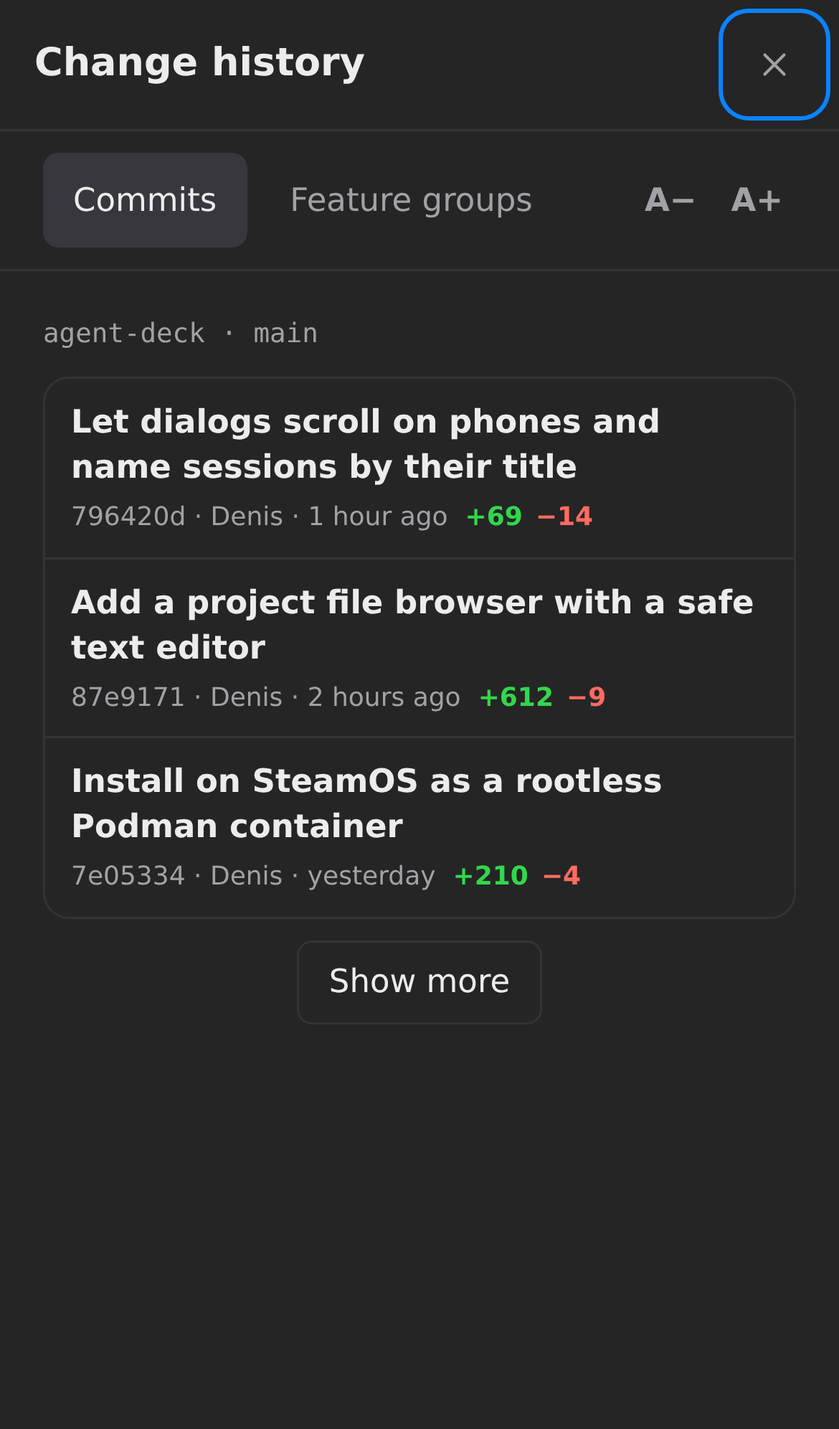
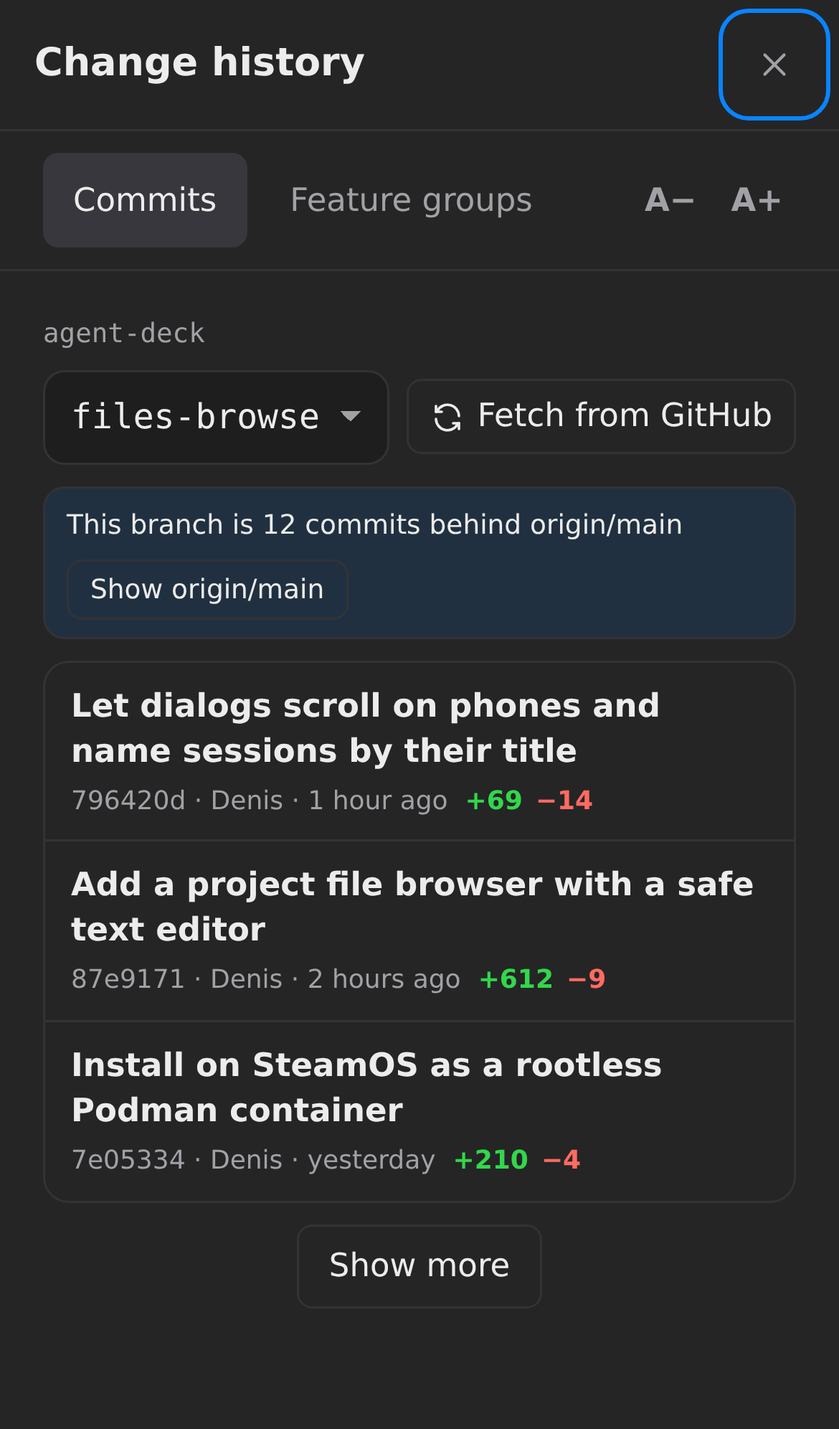
Pick the branch in change history, show how far a worktree is behind and fetch from GitHub
Claude-Session: https://claude.ai/code/session_01WizKGTW24pfp1RfsJQRaht

diff --git a/panel/index.html b/panel/index.html
@@ -438,7 +438,14 @@ dialog::backdrop{background:rgba(0,0,0,.55)}
 .git-tabs button.on{background:var(--sel);color:var(--fg2)}
 #git_body{display:flex;flex-direction:column;gap:10px}
 #git_body>*{flex:none}
-.git-repo{margin:0;color:var(--mut)}
+.git-bar{display:flex;flex-wrap:wrap;align-items:center;gap:8px}
+.git-bar code{color:var(--mut);font-family:var(--mono);font-size:12.5px}
+.git-branch{min-width:0;max-width:100%;min-height:34px;padding:4px 28px 4px 10px;border:1px solid var(--bd);border-radius:var(--r-sm);background:var(--side2);color:var(--fg2);font:12.5px var(--mono)}
+.git-bar .git-branch{width:auto;flex:1 1 140px}
+.git-bar code{flex-basis:100%}
+.git-fetch{display:inline-flex;align-items:center;gap:6px;flex:none;padding:6px 10px;border:1px solid var(--bd);border-radius:var(--r-sm);color:var(--fg2)}
+.git-behind{display:flex;flex-wrap:wrap;align-items:center;justify-content:space-between;gap:8px;padding:8px 10px;border:1px solid var(--bd);border-radius:10px;background:var(--acc-soft);color:var(--fg2);font-size:12.5px}
+.git-behind button{padding:4px 10px;border:1px solid var(--bd);border-radius:var(--r-sm);color:var(--fg2)}
 .git-list{display:grid;border:1px solid var(--bd);border-radius:12px;overflow:hidden}
 .git-row,.git-group{display:grid;gap:4px;padding:10px 12px;border-bottom:1px solid var(--bd-soft);text-align:left;color:var(--fg)}
 .git-row:last-child{border-bottom:0}.git-row:hover,.git-group:hover{background:var(--side2)}
@@ -672,6 +679,7 @@ dialog::backdrop{background:rgba(0,0,0,.55)}
   .acts button{flex:1;min-height:var(--tap);padding:12px;font-size:16px;border-radius:var(--r)}
   #inbox_dlg,#files_dlg,#git_dlg{width:100vw}
   #inbox_dlg .dlg,#files_dlg .dlg,#git_dlg .dlg{padding-top:var(--sat)}
+  .git-branch{font-size:16px;min-height:var(--tap)}
   .git-tabs{padding:10px 20px}.git-tabs button{min-height:var(--tap);padding:0 14px}
   .dl .ln{width:36px}
   #confirm_dlg{width:calc(100vw - 32px);height:fit-content;margin:auto;border:1px solid var(--bd-soft);border-radius:16px}
@@ -1937,7 +1945,7 @@ if(typeof module!=="undefined")module.exports={formatSize,homeRelative};
 // Git history of the open session's repository: commits with their diffs, and feature groups that a
 // cheap model (Claude Haiku) proposes from commit subjects and file names, each with a combined diff.
 // Agent and repository text is rendered with textContent only.
-const hist={session:null,tab:"commits",log:null,commits:[],back:null,view:null,groups:null,timer:null};
+const hist={session:null,ref:"",tab:"commits",log:null,commits:[],back:null,view:null,groups:null,timer:null,fetching:false};
 
 function relativeTime(seconds){
   const diff=seconds-Date.now()/1000,units=[["year",31536000],["month",2592000],["day",86400],["hour",3600],["minute",60]];
@@ -1992,12 +2000,32 @@ function fileBlock(title,file,open,content){
 
 async function openHistory(){
   if(!active)return;
-  hist.session=active;hist.tab="commits";hist.view=null;hist.back=null;hist.log=null;hist.commits=[];hist.groups=null;
+  hist.session=active;hist.ref="";hist.tab="commits";hist.view=null;hist.back=null;hist.log=null;hist.commits=[];hist.groups=null;
   applyCodeFont();
   if(!$("git_dlg").open)$("git_dlg").showModal();
   renderHistory();await loadHistoryPage();
 }
-function gitPath(route,params={}){return "/api/git/"+route+"?"+new URLSearchParams({name:hist.session,...params})}
+function gitPath(route,params={}){return "/api/git/"+route+"?"+new URLSearchParams({name:hist.session,ref:hist.ref,...params})}
+// Another branch (a worktree's own, the local main, or GitHub's after a fetch) starts the list over.
+function chooseBranch(ref){hist.ref=ref;hist.log=null;hist.commits=[];hist.groups=null;hist.view=null;renderHistory();loadHistoryPage();if(hist.tab==="groups")loadGroups()}
+async function fetchRemote(){
+  if(hist.fetching)return;
+  hist.fetching=true;renderHistory();
+  try{await api("/api/git_fetch",{name:hist.session});toast(tr("Ветки обновлены с GitHub"),"success");hist.fetching=false;chooseBranch(hist.ref);return}
+  catch(e){if(e.message!==STALE)toast(e.message)}
+  hist.fetching=false;renderHistory();
+}
+function branchBar(){
+  const log=hist.log,select=el("select","git-branch");select.setAttribute("aria-label",tr("Ветка"));
+  for(const name of log.branches){const option=el("option","",name);option.value=name===log.branches[0]?"":name;select.append(option)}
+  select.value=hist.ref;select.onchange=()=>chooseBranch(select.value);
+  const fetch=fileButton(hist.fetching?tr("Получаю…"):tr("Получить с GitHub"),"git-fetch",fetchRemote,"refresh");fetch.disabled=hist.fetching;
+  const bar=el("div","git-bar",el("code","",log.name),select,fetch);
+  const notes=[];
+  if(log.behind&&log.remote)notes.push(el("div","git-behind",el("span","",tr("Эта ветка отстаёт от {0} на {1} коммитов",[log.remote,log.behind])),
+    fileButton(tr("Показать {0}",[log.remote]),"",()=>chooseBranch(log.remote))));
+  return [bar,...notes];
+}
 async function loadHistoryPage(){
   try{const page=await api(gitPath("log",{skip:hist.commits.length}));hist.log=page;hist.commits.push(...page.commits)}
   catch(e){if(e.message!==STALE)hist.error=e.message}
@@ -2022,7 +2050,7 @@ async function loadGroups(){
   if(hist.tab==="groups"&&!hist.view)renderHistory();
 }
 async function startGrouping(){
-  try{hist.groups=await api("/api/git_group",{name:hist.session})}catch(e){if(e.message!==STALE)toast(e.message);return}
+  try{hist.groups=await api("/api/git_group",{name:hist.session,ref:hist.ref})}catch(e){if(e.message!==STALE)toast(e.message);return}
   renderHistory();hist.timer=setTimeout(loadGroups,3000);
 }
 function historyTab(tab){hist.tab=tab;hist.view=null;if(tab==="groups"&&!hist.groups)loadGroups();renderHistory()}
@@ -2039,7 +2067,7 @@ function renderHistory(){
   if(hist.tab==="groups")return renderGroups(box);
   if(hist.error&&!hist.commits.length){box.append(el("p","files-empty",hist.error));return}
   if(!hist.log){box.append(el("p","files-empty",tr("Загрузка…")));return}
-  box.append(el("p","git-repo",el("code","",hist.log.name+" · "+hist.log.branch)));
+  box.append(...branchBar());
   const list=el("div","git-list");for(const c of hist.commits)list.append(commitRow(c));box.append(list);
   if(!hist.commits.length)box.append(el("p","files-empty",tr("В репозитории ещё нет коммитов")));
   if(hist.log.more){const more=el("button","git-more",tr("Показать ещё"));more.type="button";more.onclick=loadHistoryPage;box.append(more)}

diff --git a/frontend/git.js b/frontend/git.js
@@ -1,7 +1,7 @@
 // Git history of the open session's repository: commits with their diffs, and feature groups that a
 // cheap model (Claude Haiku) proposes from commit subjects and file names, each with a combined diff.
 // Agent and repository text is rendered with textContent only.
-const hist={session:null,tab:"commits",log:null,commits:[],back:null,view:null,groups:null,timer:null};
+const hist={session:null,ref:"",tab:"commits",log:null,commits:[],back:null,view:null,groups:null,timer:null,fetching:false};
 
 function relativeTime(seconds){
   const diff=seconds-Date.now()/1000,units=[["year",31536000],["month",2592000],["day",86400],["hour",3600],["minute",60]];
@@ -56,12 +56,32 @@ function fileBlock(title,file,open,content){
 
 async function openHistory(){
   if(!active)return;
-  hist.session=active;hist.tab="commits";hist.view=null;hist.back=null;hist.log=null;hist.commits=[];hist.groups=null;
+  hist.session=active;hist.ref="";hist.tab="commits";hist.view=null;hist.back=null;hist.log=null;hist.commits=[];hist.groups=null;
   applyCodeFont();
   if(!$("git_dlg").open)$("git_dlg").showModal();
   renderHistory();await loadHistoryPage();
 }
-function gitPath(route,params={}){return "/api/git/"+route+"?"+new URLSearchParams({name:hist.session,...params})}
+function gitPath(route,params={}){return "/api/git/"+route+"?"+new URLSearchParams({name:hist.session,ref:hist.ref,...params})}
+// Another branch (a worktree's own, the local main, or GitHub's after a fetch) starts the list over.
+function chooseBranch(ref){hist.ref=ref;hist.log=null;hist.commits=[];hist.groups=null;hist.view=null;renderHistory();loadHistoryPage();if(hist.tab==="groups")loadGroups()}
+async function fetchRemote(){
+  if(hist.fetching)return;
+  hist.fetching=true;renderHistory();
+  try{await api("/api/git_fetch",{name:hist.session});toast(tr("Ветки обновлены с GitHub"),"success");hist.fetching=false;chooseBranch(hist.ref);return}
+  catch(e){if(e.message!==STALE)toast(e.message)}
+  hist.fetching=false;renderHistory();
+}
+function branchBar(){
+  const log=hist.log,select=el("select","git-branch");select.setAttribute("aria-label",tr("Ветка"));
+  for(const name of log.branches){const option=el("option","",name);option.value=name===log.branches[0]?"":name;select.append(option)}
+  select.value=hist.ref;select.onchange=()=>chooseBranch(select.value);
+  const fetch=fileButton(hist.fetching?tr("Получаю…"):tr("Получить с GitHub"),"git-fetch",fetchRemote,"refresh");fetch.disabled=hist.fetching;
+  const bar=el("div","git-bar",el("code","",log.name),select,fetch);
+  const notes=[];
+  if(log.behind&&log.remote)notes.push(el("div","git-behind",el("span","",tr("Эта ветка отстаёт от {0} на {1} коммитов",[log.remote,log.behind])),
+    fileButton(tr("Показать {0}",[log.remote]),"",()=>chooseBranch(log.remote))));
+  return [bar,...notes];
+}
 async function loadHistoryPage(){
   try{const page=await api(gitPath("log",{skip:hist.commits.length}));hist.log=page;hist.commits.push(...page.commits)}
   catch(e){if(e.message!==STALE)hist.error=e.message}
@@ -86,7 +106,7 @@ async function loadGroups(){
   if(hist.tab==="groups"&&!hist.view)renderHistory();
 }
 async function startGrouping(){
-  try{hist.groups=await api("/api/git_group",{name:hist.session})}catch(e){if(e.message!==STALE)toast(e.message);return}
+  try{hist.groups=await api("/api/git_group",{name:hist.session,ref:hist.ref})}catch(e){if(e.message!==STALE)toast(e.message);return}
   renderHistory();hist.timer=setTimeout(loadGroups,3000);
 }
 function historyTab(tab){hist.tab=tab;hist.view=null;if(tab==="groups"&&!hist.groups)loadGroups();renderHistory()}
@@ -103,7 +123,7 @@ function renderHistory(){
   if(hist.tab==="groups")return renderGroups(box);
   if(hist.error&&!hist.commits.length){box.append(el("p","files-empty",hist.error));return}
   if(!hist.log){box.append(el("p","files-empty",tr("Загрузка…")));return}
-  box.append(el("p","git-repo",el("code","",hist.log.name+" · "+hist.log.branch)));
+  box.append(...branchBar());
   const list=el("div","git-list");for(const c of hist.commits)list.append(commitRow(c));box.append(list);
   if(!hist.commits.length)box.append(el("p","files-empty",tr("В репозитории ещё нет коммитов")));
   if(hist.log.more){const more=el("button","git-more",tr("Показать ещё"));more.type="button";more.onclick=loadHistoryPage;box.append(more)}

diff --git a/frontend/style.css b/frontend/style.css
@@ -427,7 +427,14 @@ dialog::backdrop{background:rgba(0,0,0,.55)}
 .git-tabs button.on{background:var(--sel);color:var(--fg2)}
 #git_body{display:flex;flex-direction:column;gap:10px}
 #git_body>*{flex:none}
-.git-repo{margin:0;color:var(--mut)}
+.git-bar{display:flex;flex-wrap:wrap;align-items:center;gap:8px}
+.git-bar code{color:var(--mut);font-family:var(--mono);font-size:12.5px}
+.git-branch{min-width:0;max-width:100%;min-height:34px;padding:4px 28px 4px 10px;border:1px solid var(--bd);border-radius:var(--r-sm);background:var(--side2);color:var(--fg2);font:12.5px var(--mono)}
+.git-bar .git-branch{width:auto;flex:1 1 140px}
+.git-bar code{flex-basis:100%}
+.git-fetch{display:inline-flex;align-items:center;gap:6px;flex:none;padding:6px 10px;border:1px solid var(--bd);border-radius:var(--r-sm);color:var(--fg2)}
+.git-behind{display:flex;flex-wrap:wrap;align-items:center;justify-content:space-between;gap:8px;padding:8px 10px;border:1px solid var(--bd);border-radius:10px;background:var(--acc-soft);color:var(--fg2);font-size:12.5px}
+.git-behind button{padding:4px 10px;border:1px solid var(--bd);border-radius:var(--r-sm);color:var(--fg2)}
 .git-list{display:grid;border:1px solid var(--bd);border-radius:12px;overflow:hidden}
 .git-row,.git-group{display:grid;gap:4px;padding:10px 12px;border-bottom:1px solid var(--bd-soft);text-align:left;color:var(--fg)}
 .git-row:last-child{border-bottom:0}.git-row:hover,.git-group:hover{background:var(--side2)}
@@ -661,6 +668,7 @@ dialog::backdrop{background:rgba(0,0,0,.55)}
   .acts button{flex:1;min-height:var(--tap);padding:12px;font-size:16px;border-radius:var(--r)}
   #inbox_dlg,#files_dlg,#git_dlg{width:100vw}
   #inbox_dlg .dlg,#files_dlg .dlg,#git_dlg .dlg{padding-top:var(--sat)}
+  .git-branch{font-size:16px;min-height:var(--tap)}
   .git-tabs{padding:10px 20px}.git-tabs button{min-height:var(--tap);padding:0 14px}
   .dl .ln{width:36px}
   #confirm_dlg{width:calc(100vw - 32px);height:fit-content;margin:auto;border:1px solid var(--bd-soft);border-radius:16px}

diff --git a/scripts/repo-screenshots.spec.js b/scripts/repo-screenshots.spec.js
@@ -140,7 +140,7 @@ test('phone history',async({app,page},info)=>{
   {sha:'c'.repeat(40),short:'7e05334',author:'Denis',time:now-86400,subject:'Install on SteamOS as a rootless Podman container',files:9,added:210,removed:4}];
  const patch='diff --git a/frontend/style.css b/frontend/style.css\nindex 1..2 100644\n--- a/frontend/style.css\n+++ b/frontend/style.css\n@@ -263,7 +263,7 @@ dialog::backdrop{background:rgba(0,0,0,.55)}\n .dlg{display:flex;flex-direction:column}\n-.dlg-body{padding:22px;overflow-y:auto}\n+.dlg-body{padding:22px;overflow-y:auto;min-height:0;overscroll-behavior:contain} /* min-height:0 lets a flex child scroll instead of growing past the screen. */\n .dlg h3{margin:0 0 18px}\n';
  await demo(app,page,async()=>{
-  await page.route('**/api/git/log?*',json({repo:'/home/dev/dev/agent-deck',name:'agent-deck',branch:'main',commits,more:true}));
+  await page.route('**/api/git/log?*',json({repo:'/home/dev/dev/agent-deck',name:'agent-deck',branch:'files-browser',ref:'HEAD',branches:['files-browser','main','origin/main'],remote:'origin/main',ahead:2,behind:12,commits,more:true}));
   await page.route('**/api/git/commit?*',json({sha:'a'.repeat(40),short:'796420d',author:'Denis',email:'d@example.test',time:now-3600,parents:[],message:'Let dialogs scroll on phones and name sessions by their title\n\nFlex children need min-height:0 to scroll.',files:[{path:'frontend/style.css',status:'modified',added:1,removed:1,binary:false,truncated:false,patch},{path:'docs/screenshots/mobile-files.png',status:'added',added:0,removed:0,binary:true,truncated:false,patch:'diff --git a/x b/x\nBinary files differ'}]}));
   await page.route('**/api/git/groups?*',json({phase:'done',head:'a'.repeat(40),groups:[
    {title:'Project files',summary:'A file browser with a safe text editor: browse folders, edit .env and save without overwriting changes.',commits:['a'.repeat(40),'b'.repeat(40)]},

diff --git a/integrations/git.py b/integrations/git.py
@@ -24,9 +24,9 @@ GROUP_TIMEOUT = 180
 SEP, REC = '\x1f', '\x1e'
 
 
-def git(folder, *args, run=subprocess.run):
+def git(folder, *args, run=subprocess.run, timeout=20, env=None):
     result = run(['git', '-C', str(folder), '-c', 'core.quotepath=off', '--no-pager', *args],
-                 input=b'', capture_output=True, timeout=20)
+                 input=b'', capture_output=True, timeout=timeout, **({'env': env} if env else {}))
     if result.returncode:
         message = result.stderr.decode('utf-8', 'replace').strip().splitlines()
         if message and 'not a git repository' in message[0]:
@@ -41,13 +41,38 @@ def checked_sha(value):
     return value
 
 
-def history(folder, skip=0, run=subprocess.run):
+def branches(root, run=subprocess.run):
+    """The checked-out branch, the local default branch and the remote one (what GitHub has after a fetch).
+    A worktree usually sits on its own branch, which may be far behind the default one."""
+    current = git(root, 'rev-parse', '--abbrev-ref', 'HEAD', run=run).strip()
+    names = git(root, 'for-each-ref', '--format=%(refname:short)', 'refs/heads', 'refs/remotes', run=run).split()
+    try:
+        remote = git(root, 'symbolic-ref', '--quiet', '--short', 'refs/remotes/origin/HEAD', run=run).strip()
+    except ValueError:
+        remote = next((n for n in ('origin/main', 'origin/master') if n in names), '')
+    local = remote.split('/', 1)[1] if remote and remote.split('/', 1)[1] in names else \
+        next((n for n in ('main', 'master') if n in names), '')
+    options = [n for i, n in enumerate([current, local, remote]) if n and n not in [current, local, remote][:i]]
+    return {'current': current, 'remote': remote, 'names': set(names), 'options': options}
+
+
+def checked_ref(ref, known):
+    if not ref or ref == 'HEAD':
+        return 'HEAD'
+    if not isinstance(ref, str) or ref.startswith('-') or ref not in known['names'] | {known['current']}:
+        raise ValueError('Такой ветки нет в репозитории')
+    return ref
+
+
+def history(folder, skip=0, run=subprocess.run, ref=None):
     if not isinstance(skip, int) or skip < 0:
         raise ValueError('Неверная страница истории')
     root = git(folder, 'rev-parse', '--show-toplevel', run=run).strip()
-    branch = git(root, 'rev-parse', '--abbrev-ref', 'HEAD', run=run).strip()
+    known = branches(root, run=run)
+    ref = checked_ref(ref, known)
+    branch = known['current'] if ref == 'HEAD' else ref
     raw = git(root, 'log', f'--skip={skip}', f'-n{PAGE + 1}', '--shortstat',
-              f'--format={REC}%H{SEP}%h{SEP}%an{SEP}%at{SEP}%s', run=run)
+              f'--format={REC}%H{SEP}%h{SEP}%an{SEP}%at{SEP}%s', ref, '--', run=run)
     commits = []
     for record in raw.split(REC)[1:]:
         head, _, stats = record.partition('\n')
@@ -56,8 +81,25 @@ def history(folder, skip=0, run=subprocess.run):
         commits.append({'sha': sha, 'short': short, 'author': author, 'time': int(at or 0), 'subject': subject,
                         'files': numbers.get('file', 0), 'added': numbers.get('insertion', 0),
                         'removed': numbers.get('deletion', 0)})
-    return {'repo': root, 'name': os.path.basename(root), 'branch': branch,
+    ahead = behind = 0
+    if known['remote'] and branch != known['remote']:
+        counts = git(root, 'rev-list', '--left-right', '--count', f'{ref}...{known["remote"]}', '--', run=run).split()
+        ahead, behind = (int(counts[0]), int(counts[1])) if len(counts) == 2 else (0, 0)
+    return {'repo': root, 'name': os.path.basename(root), 'branch': branch, 'ref': ref, 'branches': known['options'],
+            'remote': known['remote'], 'ahead': ahead, 'behind': behind,
             'commits': commits[:PAGE], 'more': len(commits) > PAGE}
+
+
+def fetch(folder, run=subprocess.run):
+    """Updates remote branches only (never the working tree); never waits for a password prompt."""
+    root = git(folder, 'rev-parse', '--show-toplevel', run=run).strip()
+    env = {**os.environ, 'GIT_TERMINAL_PROMPT': '0', 'GIT_ASKPASS': '/bin/false',
+           'GIT_SSH_COMMAND': 'ssh -o BatchMode=yes -o ConnectTimeout=15'}
+    try:
+        git(root, 'fetch', '--prune', '--quiet', 'origin', run=run, timeout=60, env=env)
+    except subprocess.TimeoutExpired:
+        raise ValueError('GitHub не ответил за минуту; попробуйте позже') from None
+    return {'ok': True}
 
 
 def split_patch(text):
@@ -170,8 +212,8 @@ class Grouper:
     def key(self, repo, head):
         return hashlib.sha256(f'{repo}\0{head}'.encode()).hexdigest()[:24]
 
-    def status(self, folder):
-        info = history(folder, run=self.run)
+    def status(self, folder, ref=None):
+        info = history(folder, run=self.run, ref=ref)
         head = info['commits'][0]['sha'] if info['commits'] else ''
         key = self.key(info['repo'], head)
         try:
@@ -181,11 +223,11 @@ class Grouper:
         with self.lock:
             return {'phase': 'idle', 'head': head, **self.jobs.get(key, {})}
 
-    def start(self, folder, language='en'):
+    def start(self, folder, language='en', ref=None):
         repo = git(folder, 'rev-parse', '--show-toplevel', run=self.run).strip()
         commits = []
         while len(commits) < GROUP_COMMITS:
-            page = history(repo, len(commits), run=self.run)
+            page = history(repo, len(commits), run=self.run, ref=ref)
             commits += page['commits']
             if not page['more']:
                 break
@@ -206,7 +248,8 @@ class Grouper:
 
     def work(self, key, repo, commits, claude, language):
         try:
-            names = git(repo, 'log', f'-n{len(commits)}', '--name-only', f'--format={REC}%H', run=self.run)
+            names = git(repo, 'log', '--no-walk=unsorted', '--name-only', f'--format={REC}%H',
+                        *[c['sha'] for c in commits], '--', run=self.run)
             files = {}
             for record in names.split(REC)[1:]:
                 sha, _, rest = record.partition('\n')

diff --git a/tests/backend/test_git.py b/tests/backend/test_git.py
@@ -103,3 +103,49 @@ class PanelGitTests(PanelCase):
     def test_git_routes_need_a_real_session(self):
         with self.assertRaisesRegex(ValueError, 'сессия не найдена'):
             self.panel.git_payload('/api/git/log', {'name': ['../x']})
+
+
+class WorktreeBranchTests(unittest.TestCase):
+    def setUp(self):
+        tmp = tempfile.TemporaryDirectory(dir='/tmp')
+        self.addCleanup(tmp.cleanup)
+        root = Path(tmp.name)
+        env = ['-c', 'user.name=Dev', '-c', 'user.email=dev@example.test', '-c', 'commit.gpgsign=false']
+        def git(where, *args):
+            subprocess.run(['git', *env, '-C', str(where), *args], check=True, capture_output=True)
+        self.git = git
+        self.origin, self.clone, self.tree = root / 'origin.git', root / 'clone', root / 'tree'
+        subprocess.run(['git', 'init', '-q', '--bare', '-b', 'main', str(self.origin)], check=True, capture_output=True)
+        subprocess.run(['git', 'clone', '-q', str(self.origin), str(self.clone)], check=True, capture_output=True)
+        (self.clone / 'a.txt').write_text('a\n')
+        git(self.clone, 'add', '.'); git(self.clone, 'commit', '-q', '-m', 'Old work'); git(self.clone, 'push', '-q', 'origin', 'main')
+        git(self.clone, 'remote', 'set-head', 'origin', 'main')
+        git(self.clone, 'worktree', 'add', '-q', '-b', 'feature', str(self.tree))
+        (self.clone / 'b.txt').write_text('b\n')
+        git(self.clone, 'add', '.'); git(self.clone, 'commit', '-q', '-m', 'Shipped to prod'); git(self.clone, 'push', '-q', 'origin', 'main')
+
+    def test_a_worktree_shows_its_branch_how_far_behind_it_is_and_can_switch_to_the_remote(self):
+        own = G.history(self.tree)
+        self.assertEqual((own['branch'], own['remote'], own['behind']), ('feature', 'origin/main', 1))
+        self.assertEqual(own['branches'], ['feature', 'main', 'origin/main'])
+        self.assertEqual([c['subject'] for c in own['commits']], ['Old work'])
+        prod = G.history(self.tree, ref='origin/main')
+        self.assertEqual(prod['commits'][0]['subject'], 'Shipped to prod')
+        with self.assertRaisesRegex(ValueError, 'ветки'):
+            G.history(self.tree, ref='--all')
+
+    def test_fetch_brings_new_remote_commits_and_never_prompts(self):
+        other = Path(tempfile.mkdtemp(dir='/tmp'))
+        self.addCleanup(lambda: __import__('shutil').rmtree(other))
+        subprocess.run(['git', 'clone', '-q', str(self.origin), str(other / 'c')], check=True, capture_output=True)
+        (other / 'c/c.txt').write_text('c\n')
+        self.git(other / 'c', 'add', '.'); self.git(other / 'c', 'commit', '-q', '-m', 'Pushed elsewhere'); self.git(other / 'c', 'push', '-q')
+        self.assertNotEqual(G.history(self.tree, ref='origin/main')['commits'][0]['subject'], 'Pushed elsewhere')
+        seen = {}
+        def run(command, **kwargs):
+            if 'fetch' in command:
+                seen.update(kwargs.get('env') or {})
+            return subprocess.run(command, **kwargs)
+        G.fetch(self.tree, run=run)
+        self.assertEqual(seen.get('GIT_TERMINAL_PROMPT'), '0')
+        self.assertEqual(G.history(self.tree, ref='origin/main')['commits'][0]['subject'], 'Pushed elsewhere')

diff --git a/panel/panel.py b/panel/panel.py
@@ -1667,21 +1667,26 @@ def git_payload(route, query):
     folder = session_folder(query.get("name", [""])[0])
     if route == "/api/git/log":
         skip = query.get("skip", ["0"])[0]
-        return git.history(folder, int(skip) if skip.isdigit() else -1)
+        return git.history(folder, int(skip) if skip.isdigit() else -1, ref=query.get("ref", [""])[0])
     if route == "/api/git/commit":
         return git.commit(folder, query.get("sha", [""])[0])
     if route == "/api/git/group_diff":
         return git.group_diff(folder, [s for s in query.get("shas", [""])[0].split(",") if s])
     if route == "/api/git/groups":
-        return git_grouper().status(folder)
+        return git_grouper().status(folder, query.get("ref", [""])[0])
     raise ValueError("Agent Deck route not found")
 
 
 def action_git_group(d):
-    return git_grouper().start(session_folder(d.get("name")), d.get("_language", DEFAULT_LANGUAGE))
+    return git_grouper().start(session_folder(d.get("name")), d.get("_language", DEFAULT_LANGUAGE), d.get("ref") or None)
 
 
-ACTIONS.update(file_save=action_file_save, git_group=action_git_group,
+def action_git_fetch(d):
+    from integrations import git
+    return git.fetch(session_folder(d.get("name")))
+
+
+ACTIONS.update(file_save=action_file_save, git_group=action_git_group, git_fetch=action_git_fetch,
                telegram_config=lambda d: {'telegram': telegram_service().save(d)},
                telegram_pair=lambda d: {'telegram': telegram_service().pair()},
                answer=action_answer,

diff --git a/CHANGELOG.md b/CHANGELOG.md
@@ -2,6 +2,10 @@
 
 Versions follow [semver](https://semver.org). Install a version with `sudo ./update.sh vX.Y.Z` (older than the installed one: `sudo FORCE_DOWNGRADE=1 ./update.sh vX.Y.Z`).
 
+## 1.17.0 — 2026-10-06
+
+- Change history shows which branch it lists and lets you pick it: the checked-out one (a worktree usually has its own), the local default branch, or the remote one such as `origin/main`. A note says how many commits the branch is behind the remote, with a button to show the remote. **Fetch from GitHub** runs `git fetch --prune` (remote branches only, the working tree is untouched, never waits for a password). Feature groups follow the chosen branch.
+
 ## 1.16.3 — 2026-10-06
 
 - Switching sessions no longer leaves the previous agent's screen up: a screen already seen appears at once, otherwise a skeleton with "Loading the session screen…" stays until the new one arrives. In Term mode a new terminal shows "Connecting to the terminal…" until it has loaded.
